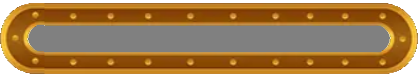
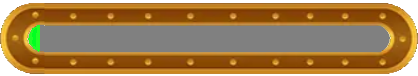
siu

Changed region(s): [[0.0622, 0.3421, 0.0933, 0.6842]]

diff --git a/src/main/java/MainPanel.java b/src/main/java/MainPanel.java
@@ -707,7 +707,7 @@ public class MainPanel extends JPanel {
 
 
 
-        if(ls.getState() <= 100) {
+        if(ls.getState() <100) {
             g.drawImage(hg, 0, 0, 1920, 1080, null);
             g.drawImage(ls.getHg(), 660, 860, 600, 80, null);
             g.setColor(Color.green);
@@ -715,9 +715,36 @@ public class MainPanel extends JPanel {
             g.setColor(Color.WHITE);
             g.setFont(new Font("Verdana",1,25));
             g.drawString(ls.getState() + "%", 950,980);
-        }else {
+
+        }else  if(ls.getState()==100) {
+            g.drawImage(hg, 0, 0, 1920, 1080, null);
+            try {
+                g.drawImage(ImageIO.read(new File("src/main/java/lbarfull.png")), 660, 860, 600, 80, null);
+            } catch (IOException e) {
+                e.printStackTrace();
+            }
+            g.setColor(Color.green);
+            g.fillRect(713,885,ls.getState()*5,30);
+            g.setColor(Color.WHITE);
+            g.setFont(new Font("Verdana",1,25));
+            g.drawString(ls.getState() + "%", 950,980);
+        }else{
             g.drawImage(bg, 0, 0, 1920, 1080, null);
         }
+
+        if(ls.getState()%10 ==1 || ls.getState()%10 ==2){
+            g.drawString("Loading", 900, 800);
+        }
+        if(ls.getState()%10 ==3 ||ls.getState()%10 ==4 || ls.getState()%10 ==5  ){
+            g.drawString("Loading.", 900, 800);
+        }
+        if(ls.getState()%10 ==6 ||ls.getState()%10 ==7 || ls.getState()%10 ==8  ){
+            g.drawString("Loading..", 900, 800);
+        }
+        if(ls.getState()%10 ==9 ||ls.getState()%10 ==0  ){
+            g.drawString("Loading...", 900, 800);
+        }
+
     }
 }
 
